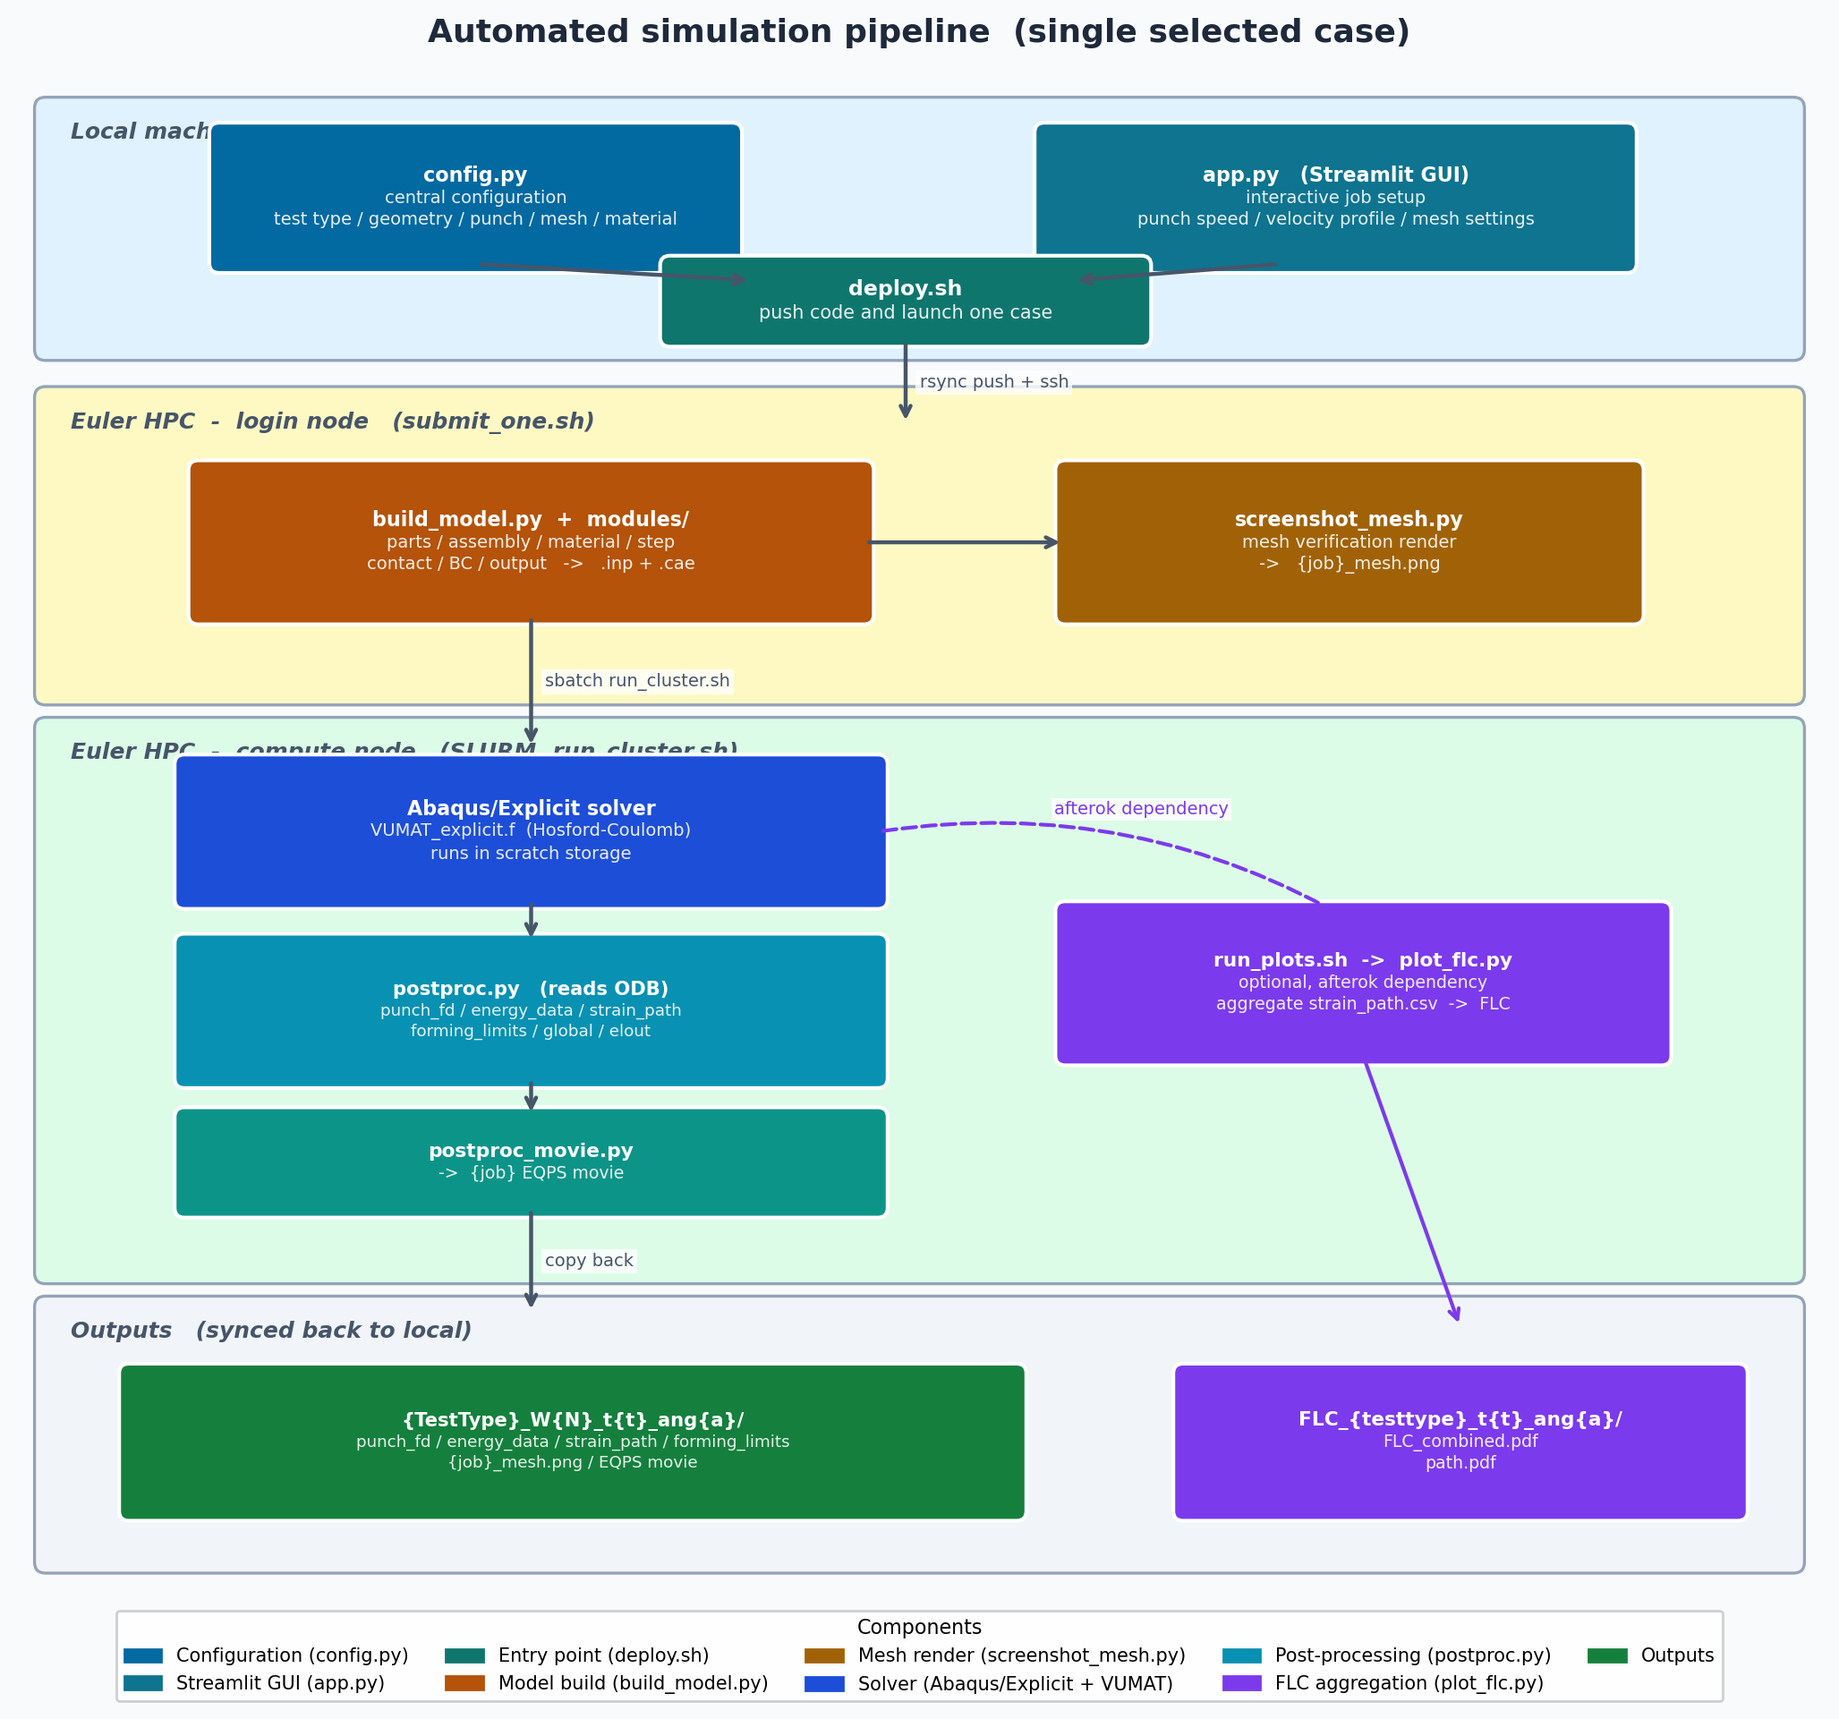
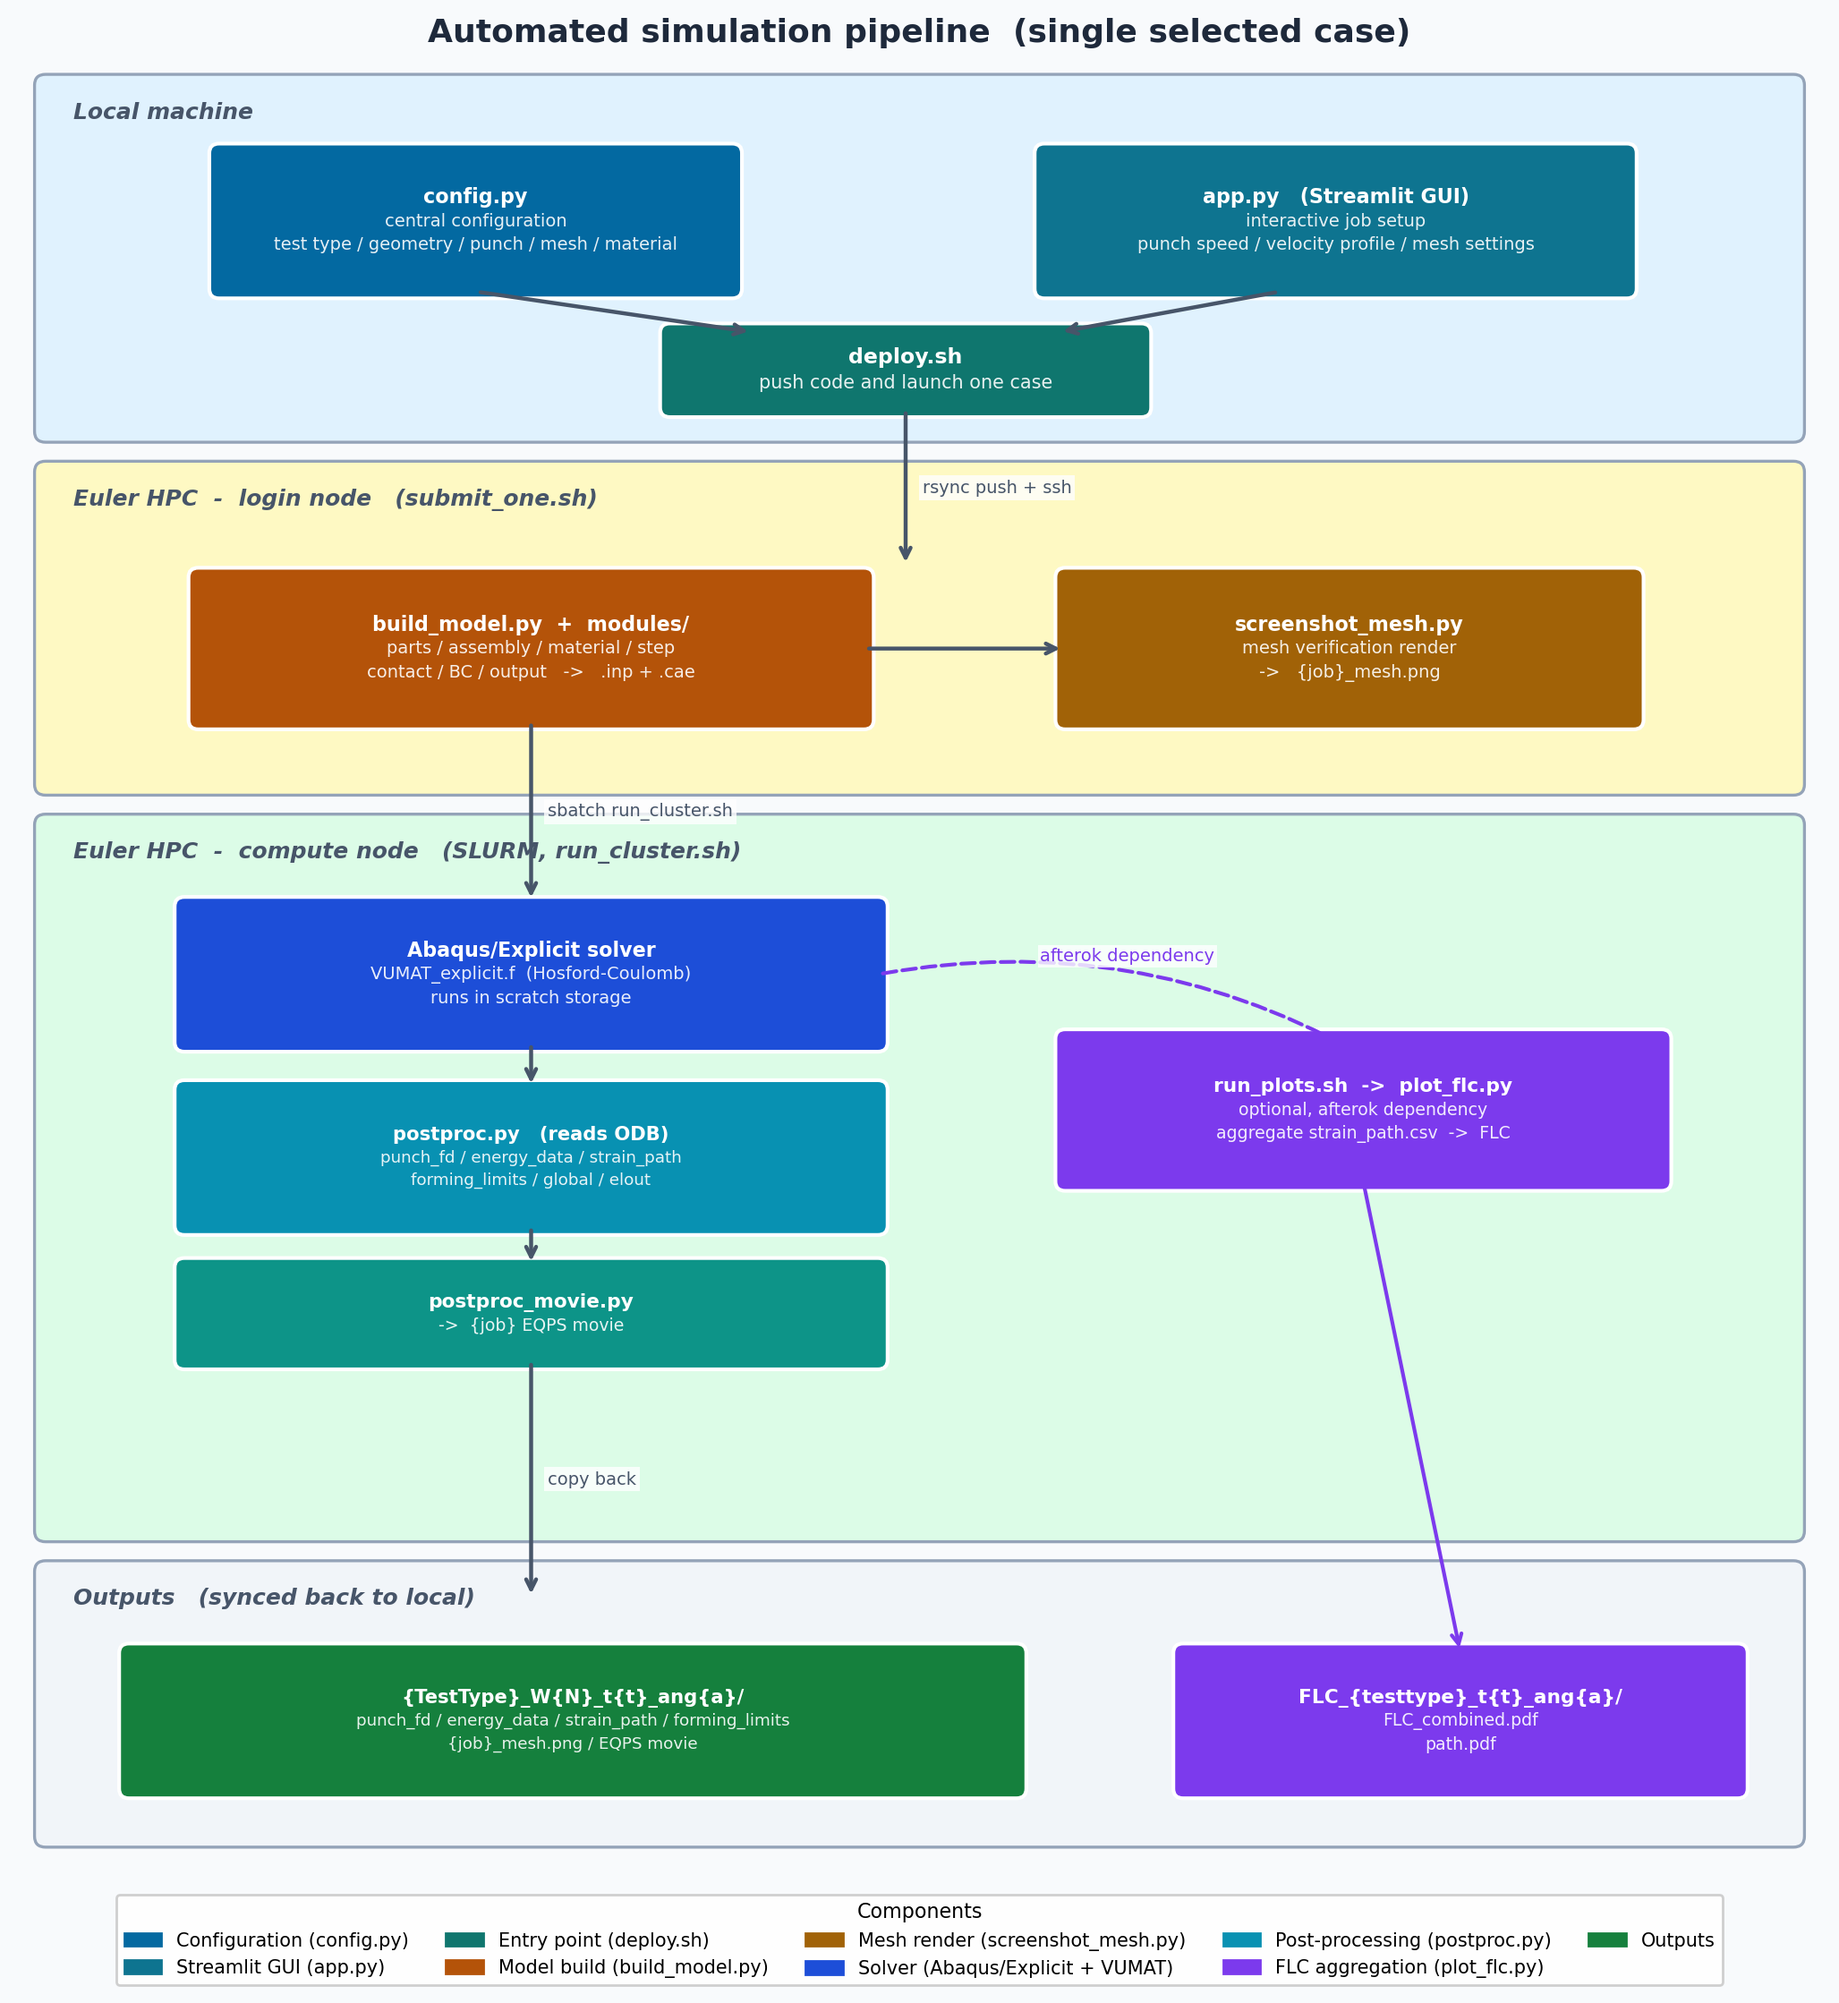
Give architecture diagram more vertical headroom
Taller figure and added clearance between each zone label and its boxes, so the
zone band labels are no longer hidden behind the code boxes.

diff --git a/Unused/architecture_diagram.py b/Unused/architecture_diagram.py
@@ -28,7 +28,7 @@ def _box(ax, cx, cy, w, h, lines, fill, fs=8.5, zo=4, tc='white'):
         lines = [lines]
     n = len(lines)
     for i, line in enumerate(lines):
-        dy = (i-(n-1)/2) * (fs*0.020)
+        dy = (i-(n-1)/2) * (fs*0.022)
         ax.text(cx, cy-dy, line,
                 fontsize=fs if i == 0 else fs-1,
                 fontweight='bold' if i == 0 else 'normal',
@@ -39,7 +39,7 @@ def _box(ax, cx, cy, w, h, lines, fill, fs=8.5, zo=4, tc='white'):
 def _zone(ax, x, y, w, h, color, label, fs=9):
     ax.add_patch(FancyBboxPatch((x, y), w, h, boxstyle='round,pad=0.08',
                                 facecolor=color, edgecolor='#94a3b8', lw=1.2, zorder=1))
-    ax.text(x+0.18, y+h-0.10, label, fontsize=fs, color='#475569',
+    ax.text(x+0.20, y+h-0.12, label, fontsize=fs, color='#475569',
             fontweight='bold', va='top', ha='left', zorder=2, fontstyle='italic')
 
 
@@ -49,13 +49,13 @@ def _arr(ax, x0, y0, x1, y1, label='', lw=1.6, color='#475569', ls='-', rad=0.0)
                                 connectionstyle=f'arc3,rad={rad}'), zorder=6)
     if label:
         mx, my = (x0+x1)/2, (y0+y1)/2
-        ax.text(mx+0.1, my, label, fontsize=7, color=color, ha='left', va='center',
+        ax.text(mx+0.12, my, label, fontsize=7, color=color, ha='left', va='center',
                 zorder=7, bbox=dict(fc='white', ec='none', pad=1.5, alpha=0.8))
 
 
 def make_pipeline():
-    fig, ax = plt.subplots(figsize=(13, 11))
-    ax.set_xlim(0, 13); ax.set_ylim(0, 11); ax.axis('off')
+    fig, ax = plt.subplots(figsize=(13, 13))
+    ax.set_xlim(0, 13); ax.set_ylim(0, 13.2); ax.axis('off')
     fig.patch.set_facecolor('#f8fafc')
 
     Z_LOCAL = '#e0f2fe'; Z_LOGIN = '#fef9c3'; Z_COMPUTE = '#dcfce7'; Z_OUT = '#f1f5f9'
@@ -63,69 +63,69 @@ def make_pipeline():
     B_BUILD = '#b45309'; B_MESH = '#a16207'; B_JOB = '#1d4ed8'
     B_POST = '#0891b2'; B_MOV = '#0d9488'; B_FLC = '#7c3aed'; B_OUT = '#15803d'
 
-    # ── Zones ────────────────────────────────────────────────────────────────
-    _zone(ax, 0.2, 8.95, 12.6, 1.75, Z_LOCAL,   'Local machine')
-    _zone(ax, 0.2, 6.45, 12.6, 2.15, Z_LOGIN,   'Euler HPC  -  login node   (submit_one.sh)')
-    _zone(ax, 0.2, 2.25, 12.6, 3.95, Z_COMPUTE, 'Euler HPC  -  compute node   (SLURM, run_cluster.sh)')
-    _zone(ax, 0.2, 0.15, 12.6, 1.85, Z_OUT,     'Outputs   (synced back to local)')
+    # ── Zones (bottom y, height) with headroom above the first box for the label
+    _zone(ax, 0.2, 10.55, 12.6, 2.55, Z_LOCAL,   'Local machine')
+    _zone(ax, 0.2,  7.95, 12.6, 2.30, Z_LOGIN,   'Euler HPC  -  login node   (submit_one.sh)')
+    _zone(ax, 0.2,  2.45, 12.6, 5.20, Z_COMPUTE, 'Euler HPC  -  compute node   (SLURM, run_cluster.sh)')
+    _zone(ax, 0.2,  0.20, 12.6, 1.95, Z_OUT,     'Outputs   (synced back to local)')
 
     # ── Local ────────────────────────────────────────────────────────────────
-    _box(ax, 3.3, 10.05, 3.7, 0.95,
+    _box(ax, 3.3, 12.10, 3.7, 1.0,
          ['config.py', 'central configuration',
           'test type / geometry / punch / mesh / material'], B_CONFIG, fs=8)
-    _box(ax, 9.5, 10.05, 4.2, 0.95,
+    _box(ax, 9.5, 12.10, 4.2, 1.0,
          ['app.py   (Streamlit GUI)', 'interactive job setup',
           'punch speed / velocity profile / mesh settings'], B_GUI, fs=8)
-    _box(ax, 6.4, 9.30, 3.4, 0.52, ['deploy.sh', 'push code and launch one case'], B_DEPLOY, fs=8.5)
-    _arr(ax, 3.3, 9.57, 5.3, 9.45)
-    _arr(ax, 9.1, 9.57, 7.6, 9.45)
+    _box(ax, 6.4, 11.00, 3.4, 0.55, ['deploy.sh', 'push code and launch one case'], B_DEPLOY, fs=8.5)
+    _arr(ax, 3.3, 11.58, 5.3, 11.28)
+    _arr(ax, 9.1, 11.58, 7.5, 11.28)
 
     # ── Login node ───────────────────────────────────────────────────────────
-    _arr(ax, 6.4, 9.02, 6.4, 8.40, 'rsync push + ssh')
-    _box(ax, 3.7, 7.55, 4.8, 1.05,
+    _arr(ax, 6.4, 10.72, 6.4, 9.55, 'rsync push + ssh')
+    _box(ax, 3.7, 8.95, 4.8, 1.05,
          ['build_model.py  +  modules/', 'parts / assembly / material / step',
           'contact / BC / output   ->   .inp + .cae'], B_BUILD, fs=8)
-    _box(ax, 9.6, 7.55, 4.1, 1.05,
+    _box(ax, 9.6, 8.95, 4.1, 1.05,
          ['screenshot_mesh.py', 'mesh verification render',
           '->   {job}_mesh.png'], B_MESH, fs=8)
-    _arr(ax, 6.1, 7.55, 7.55, 7.55)
+    _arr(ax, 6.1, 8.95, 7.55, 8.95)
 
     # ── Compute node (SLURM) ─────────────────────────────────────────────────
-    _arr(ax, 3.7, 7.02, 3.7, 6.05, 'sbatch run_cluster.sh')
-    _box(ax, 3.7, 5.45, 5.0, 0.98,
+    _arr(ax, 3.7, 8.42, 3.7, 7.08, 'sbatch run_cluster.sh')
+    _box(ax, 3.7, 6.55, 5.0, 1.0,
          ['Abaqus/Explicit solver', 'VUMAT_explicit.f  (Hosford-Coulomb)',
           'runs in scratch storage'], B_JOB, fs=8)
-    _box(ax, 3.7, 4.15, 5.0, 0.98,
+    _box(ax, 3.7, 5.20, 5.0, 1.0,
          ['postproc.py   (reads ODB)', 'punch_fd / energy_data / strain_path',
           'forming_limits / global / elout'], B_POST, fs=7.6)
-    _box(ax, 3.7, 3.05, 5.0, 0.66, ['postproc_movie.py', '->  {job} EQPS movie'], B_MOV, fs=7.8)
-    _arr(ax, 3.7, 4.96, 3.7, 4.64)
-    _arr(ax, 3.7, 3.66, 3.7, 3.38)
+    _box(ax, 3.7, 4.05, 5.0, 0.68, ['postproc_movie.py', '->  {job} EQPS movie'], B_MOV, fs=7.8)
+    _arr(ax, 3.7, 6.05, 3.7, 5.71)
+    _arr(ax, 3.7, 4.70, 3.7, 4.40)
 
     # optional FLC plotting (afterok)
-    _box(ax, 9.7, 4.35, 4.3, 1.05,
+    _box(ax, 9.7, 5.55, 4.3, 1.05,
          ['run_plots.sh  ->  plot_flc.py', 'optional, afterok dependency',
           'aggregate strain_path.csv  ->  FLC'], B_FLC, fs=7.8)
-    ax.annotate('', xy=(9.7, 4.75), xytext=(6.2, 5.45),
+    ax.annotate('', xy=(9.7, 5.95), xytext=(6.2, 6.55),
                 arrowprops=dict(arrowstyle='->', color=B_FLC, lw=1.5, linestyle='dashed',
                                 connectionstyle='arc3,rad=-0.18'), zorder=6)
-    ax.text(8.1, 5.55, 'afterok dependency', fontsize=7, color=B_FLC,
+    ax.text(8.0, 6.62, 'afterok dependency', fontsize=7, color=B_FLC,
             ha='center', va='bottom', zorder=7,
             bbox=dict(fc='white', ec='none', pad=1.0, alpha=0.8))
 
     # ── Outputs ──────────────────────────────────────────────────────────────
-    _arr(ax, 3.7, 2.72, 3.7, 1.95, 'copy back')
-    _box(ax, 4.0, 1.02, 6.4, 1.0,
+    _arr(ax, 3.7, 3.71, 3.7, 1.95, 'copy back')
+    _box(ax, 4.0, 1.05, 6.4, 1.0,
          ['{TestType}_W{N}_t{t}_ang{a}/',
           'punch_fd / energy_data / strain_path / forming_limits',
           '{job}_mesh.png / EQPS movie'], B_OUT, fs=7.6)
-    _box(ax, 10.4, 1.02, 4.0, 1.0,
+    _box(ax, 10.4, 1.05, 4.0, 1.0,
          ['FLC_{testtype}_t{t}_ang{a}/', 'FLC_combined.pdf', 'path.pdf'], B_FLC, fs=7.8)
-    ax.annotate('', xy=(10.4, 1.85), xytext=(9.7, 3.82),
+    ax.annotate('', xy=(10.4, 1.55), xytext=(9.7, 5.02),
                 arrowprops=dict(arrowstyle='->', color=B_FLC, lw=1.5,
                                 connectionstyle='arc3,rad=0.0'), zorder=6)
 
-    # ── Legend ───────────────────────────────────────────────────────────────
+    # ── Legend (below the figure) ────────────────────────────────────────────
     ax.legend(handles=[
         mpatches.Patch(color=B_CONFIG, label='Configuration (config.py)'),
         mpatches.Patch(color=B_GUI,    label='Streamlit GUI (app.py)'),
@@ -140,7 +140,7 @@ def make_pipeline():
        bbox_to_anchor=(0.5, -0.012), title='Components', title_fontsize=8)
 
     ax.set_title('Automated simulation pipeline  (single selected case)',
-                 fontsize=13, fontweight='bold', color='#1e293b', pad=10)
+                 fontsize=13, fontweight='bold', color='#1e293b', pad=12)
     os.makedirs('report/img', exist_ok=True)
     fig.savefig('report/img/architecture.png', dpi=200, bbox_inches='tight',
                 facecolor=fig.get_facecolor())
